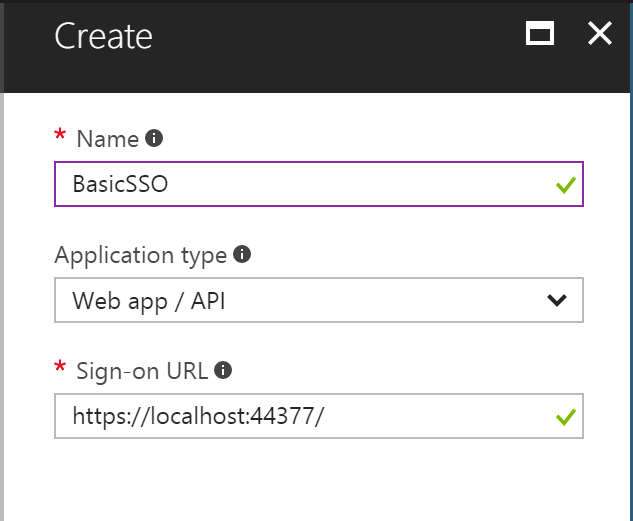
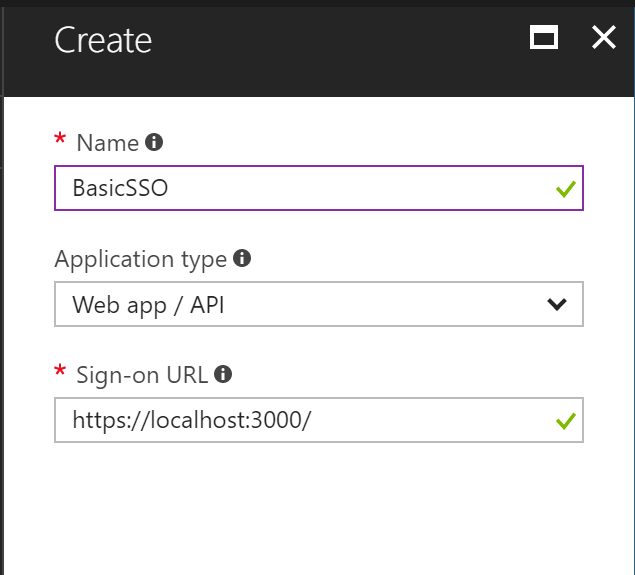
fix bugs

diff --git a/Basics of SSO/README.md b/Basics of SSO/README.md
@@ -71,7 +71,7 @@ All code referenced in these instructions is also used in the associated files i
 
 4. Input a **Name**, and select **Web app / API** as **Application Type**.
 
-   Input **Sign-on URL**: https://localhost:44377/
+   Input **Sign-on URL**: https://localhost:3000/
 
    ![](Images/aad-create-app-02.png)
 
@@ -122,7 +122,7 @@ All code referenced in these instructions is also used in the associated files i
     gem 'adal'
     gem 'openid_connect'
     gem 'omniauth-oauth2'
-   ```
+    ```
 
 3. Open **db/schema.rb** , add the following code into **ActiveRecord** to create token cache table.
 
@@ -235,11 +235,11 @@ All code referenced in these instructions is also used in the associated files i
 8. Open **strategies** folder, add new file named **azure_oauth2.rb** into it,  add the following code into it.
 
     ```ruby
-   require 'omniauth/strategies/oauth2'
-   require 'jwt'
+       require 'omniauth/strategies/oauth2'
+       require 'jwt'
 
-   module OmniAuth
-     module Strategies
+       module OmniAuth
+       module Strategies
 
        class AzureOAuth2 < OmniAuth::Strategies::OAuth2
 
@@ -249,32 +249,32 @@ All code referenced in these instructions is also used in the associated files i
          option :tenant_id, 'common'
          option :resource, 'https://graph.windows.net'
          option :callback_paths, []
-
+    
          args [:tenant_id]
-
+    
          def client
            
            options.client_id = options.client_id
            options.client_secret = options.client_secret
            options.tenant_id = options.tenant_id
-
+    
            options.callback_path = request.params['callback_path'] if request.params['callback_path']
-
+    
            options.authorize_params.prompt = request.params['prompt'] if request.params['prompt']
            options.authorize_params.login_hint = request.params['login_hint'] if request.params['login_hint']   
-
+    
            options.client_options.authorize_url = "#{BASE_AZURE_URL}/#{options.tenant_id}/oauth2/authorize"
            options.client_options.token_url = "#{BASE_AZURE_URL}/#{options.tenant_id}/oauth2/token"
-
+    
            options.token_params.resource = options.resource
-
+    
            super
          end
-
+    
          uid {
            raw_info['sub']
          }
-
+    
          info do
            {
              name: raw_info['name'],
@@ -286,31 +286,31 @@ All code referenced in these instructions is also used in the associated files i
              tid: raw_info['tid']
            }
          end
-
+    
          def callback_url
            full_host + script_name + callback_path
          end
-
+    
          def raw_info
            # it's all here in JWT http://msdn.microsoft.com/en-us/library/azure/dn195587.aspx
            @raw_info ||= ::JWT.decode(access_token.token, nil, false).first
          end
-
+    
          def on_callback_path?
            options[:callback_paths].include? current_path or super
          end
-
+    
          protected
-
+    
          def build_access_token
            options.callback_path = current_path
            super
          end
-
+    
          def ssl?
            request.env['HTTP_X_ARR_SSL'] || super
          end
-
+    
        end
      end
    end
@@ -343,16 +343,16 @@ All code referenced in these instructions is also used in the associated files i
 
 10. Add new file named **constants.rb** into **app/models** folder, add the following code into it.
 
-    ```ruby
-    module Constants  
-      AADInstance = "https://login.microsoftonline.com/"
-      module Resources
-         MSGraph = 'https://graph.microsoft.com' 
-         AADGraph = 'https://graph.windows.net'
-      end
-    end
-    ```
-    This is AAD/MSGraph/ AADGraph Url constants. To see how this file works in the Demo app, refer to the file located [here](../app/models/constants.rb) in the Demo app.
+   ```ruby
+   module Constants  
+     AADInstance = "https://login.microsoftonline.com/"
+     module Resources
+        MSGraph = 'https://graph.microsoft.com' 
+        AADGraph = 'https://graph.windows.net'
+     end
+   end
+   ```
+   This is AAD/MSGraph/ AADGraph Url constants. To see how this file works in the Demo app, refer to the file located [here](../app/models/constants.rb) in the Demo app.
 
 11. Open **app/models/unified_user.rb** folder, delete all code and add the following code into it.
 
@@ -524,7 +524,7 @@ All code referenced in these instructions is also used in the associated files i
     </div>
     ```
 
-    This adds an O365 login button on the right of login page. To see how this file works in the Demo app, refer to the file located [here](../app/controllers/account_controller.rb) in the Demo app.
+    This adds an O365 login button on the right of login page. To see how this file works in the Demo app, refer to the file located [here](../app/views/account/login.html.erb) in the Demo app.
 
 15. Open **config/routes.rb** file, add the  add the following code into it.
 
